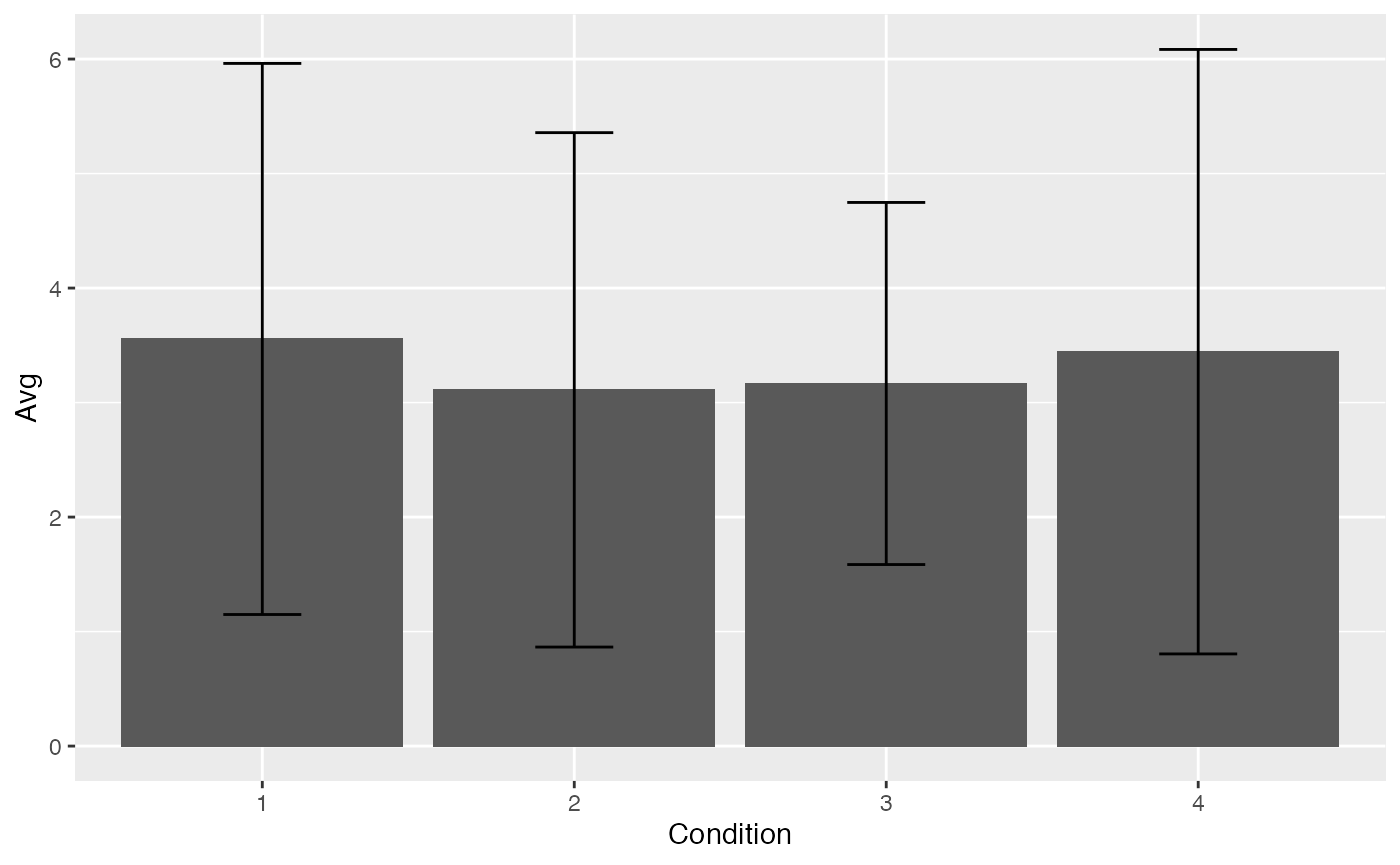
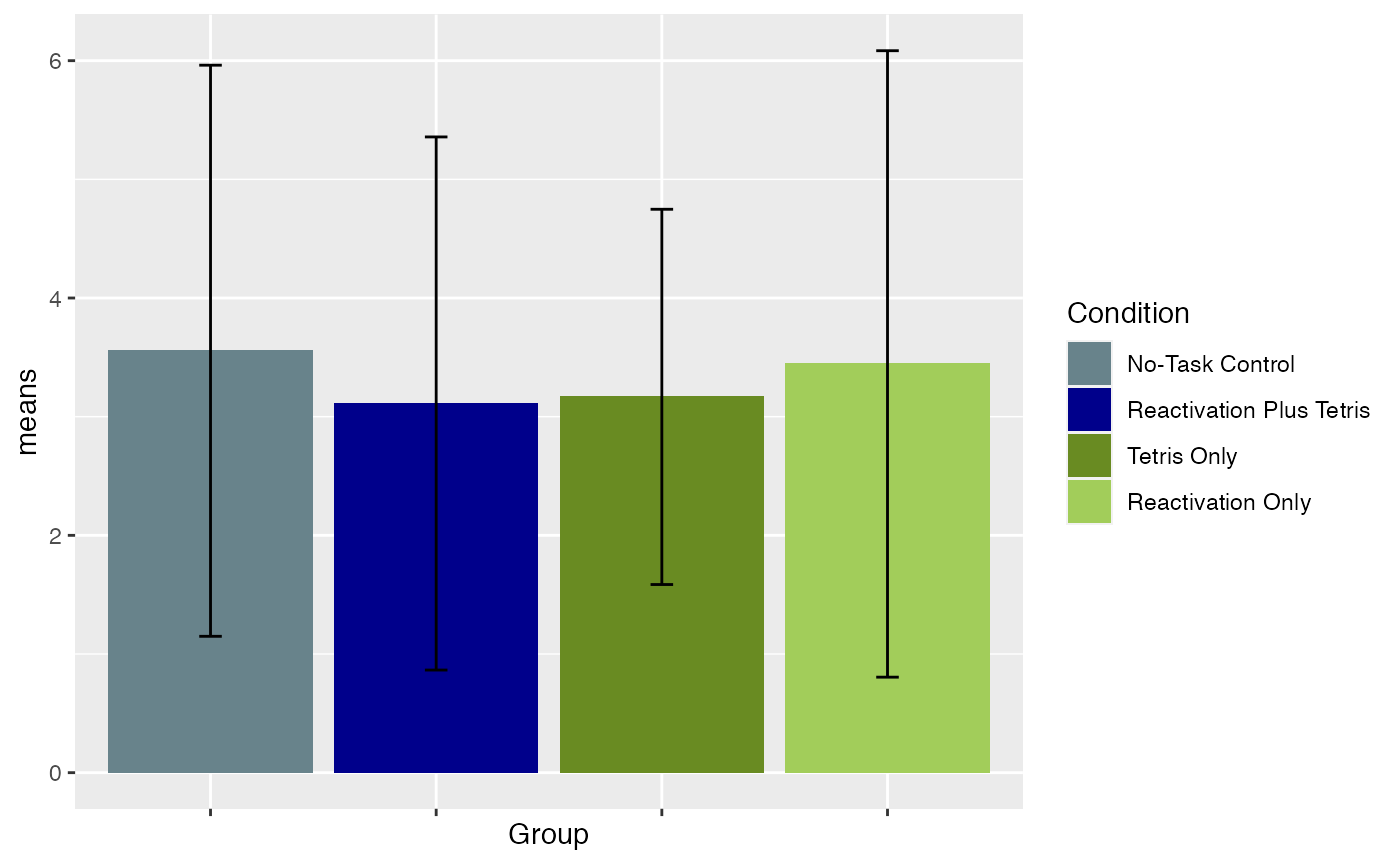
Update to lab files.

diff --git a/docs/articles/Lab 4 ANOVA.html b/docs/articles/Lab 4 ANOVA.html
@@ -113,102 +113,51 @@
 <p>Replication of one-factor ANOVA and report of results using papaja package.</p>
 <div class="sourceCode"><pre class="downlit sourceCode r">
 <code class="sourceCode R"><span class="va">jameset.data</span> <span class="op">&lt;-</span> <span class="fu"><a href="https://rdrr.io/r/utils/read.table.html" class="external-link">read.csv</a></span><span class="op">(</span><span class="st">"Data/Jamesetal2015Experiment2.csv"</span><span class="op">)</span>
+<span class="va">jameset.data</span><span class="op">$</span><span class="va">Condition</span> <span class="op">&lt;-</span> <span class="fu"><a href="https://rdrr.io/r/base/factor.html" class="external-link">as.factor</a></span><span class="op">(</span><span class="va">jameset.data</span><span class="op">$</span><span class="va">Condition</span><span class="op">)</span>
+<span class="fu"><a href="https://rdrr.io/r/base/levels.html" class="external-link">levels</a></span><span class="op">(</span><span class="va">jameset.data</span><span class="op">$</span><span class="va">Condition</span><span class="op">)</span> <span class="op">&lt;-</span> <span class="fu"><a href="https://rdrr.io/r/base/c.html" class="external-link">c</a></span><span class="op">(</span><span class="st">"No-Task Control"</span>, <span class="st">"Reactivation Plus Tetris"</span>, <span class="st">"Tetris Only"</span>, <span class="st">"Reactivation Only"</span><span class="op">)</span>
 
-<span class="co"># mcrump - rstats method</span>
-
-<span class="va">jameset.aov</span> <span class="op">&lt;-</span> <span class="va">jameset.data</span> <span class="op"><a href="https://magrittr.tidyverse.org/reference/pipe.html" class="external-link">%&gt;%</a></span>
-  <span class="fu"><a href="https://dplyr.tidyverse.org/reference/mutate.html" class="external-link">mutate</a></span><span class="op">(</span>Subjects <span class="op">=</span> <span class="fl">1</span><span class="op">:</span><span class="fl">72</span>, .before <span class="op">=</span> <span class="va">Condition</span><span class="op">)</span><span class="op"><a href="https://magrittr.tidyverse.org/reference/pipe.html" class="external-link">%&gt;%</a></span>
-  <span class="fu"><a href="https://dplyr.tidyverse.org/reference/select.html" class="external-link">select</a></span><span class="op">(</span><span class="fu"><a href="https://rdrr.io/r/base/c.html" class="external-link">c</a></span><span class="op">(</span><span class="va">Subjects</span>, <span class="va">Condition</span>, <span class="va">Day_Zero_Number_of_Intrusions</span><span class="op">)</span><span class="op">)</span>
-<span class="va">tibble.test</span> <span class="op">&lt;-</span> <span class="fu"><a href="https://tibble.tidyverse.org/reference/tibble.html" class="external-link">tibble</a></span><span class="op">(</span><span class="va">jameset.aov</span><span class="op">)</span>
-
-<span class="fu"><a href="https://rdrr.io/r/stats/aov.html" class="external-link">aov</a></span><span class="op">(</span><span class="va">Day_Zero_Number_of_Intrusions</span><span class="op">~</span><span class="va">Condition</span>, data <span class="op">=</span> <span class="va">tibble.test</span><span class="op">)</span></code></pre></div>
-<pre><code><span class="co">## Call:</span>
-<span class="co">##    aov(formula = Day_Zero_Number_of_Intrusions ~ Condition, data = tibble.test)</span>
-<span class="co">## </span>
-<span class="co">## Terms:</span>
-<span class="co">##                 Condition Residuals</span>
-<span class="co">## Sum of Squares     0.0694  347.5833</span>
-<span class="co">## Deg. of Freedom         1        70</span>
-<span class="co">## </span>
-<span class="co">## Residual standard error: 2.228335</span>
-<span class="co">## Estimated effects may be unbalanced</span></code></pre>
-<div class="sourceCode"><pre class="downlit sourceCode r">
-<code class="sourceCode R"><span class="co"># ksrm</span>
-
-<span class="fu"><a href="https://rdrr.io/r/base/colnames.html" class="external-link">colnames</a></span><span class="op">(</span><span class="va">jameset.data</span><span class="op">)</span> <span class="co"># retrieve experimental variables</span></code></pre></div>
-<pre><code><span class="co">##  [1] "Condition"                             </span>
-<span class="co">##  [2] "Time_of_Day"                           </span>
-<span class="co">##  [3] "BDI_II"                                </span>
-<span class="co">##  [4] "STAI_T"                                </span>
-<span class="co">##  [5] "pre_film_VAS_Sad"                      </span>
-<span class="co">##  [6] "pre_film_VAS_Hopeless"                 </span>
-<span class="co">##  [7] "pre_film_VAS_Depressed"                </span>
-<span class="co">##  [8] "pre_film_VAS_Fear"                     </span>
-<span class="co">##  [9] "pre_film_VAS_Horror"                   </span>
-<span class="co">## [10] "pre_film_VAS_Anxious"                  </span>
-<span class="co">## [11] "post_film_VAS_Sad"                     </span>
-<span class="co">## [12] "post_film_VAS_Hopeless"                </span>
-<span class="co">## [13] "post_film_VAS_Depressed"               </span>
-<span class="co">## [14] "post_film_VAS_Fear"                    </span>
-<span class="co">## [15] "post_film_VAS_Horror"                  </span>
-<span class="co">## [16] "post_film_VAS_Anxious"                 </span>
-<span class="co">## [17] "Attention_Paid_to_Film"                </span>
-<span class="co">## [18] "Post_film_Distress"                    </span>
-<span class="co">## [19] "Day_Zero_Number_of_Intrusions"         </span>
-<span class="co">## [20] "Days_One_to_Seven_Number_of_Intrusions"</span>
-<span class="co">## [21] "Visual_Recognition_Memory_Test"        </span>
-<span class="co">## [22] "Verbal_Recognition_Memory_Test"        </span>
-<span class="co">## [23] "Number_of_Provocation_Task_Intrusions" </span>
-<span class="co">## [24] "Diary_Compliance"                      </span>
-<span class="co">## [25] "IES_R_Intrusion_subscale"              </span>
-<span class="co">## [26] "Tetris_Total_Score"                    </span>
-<span class="co">## [27] "Self_Rated_Tetris_Performance"         </span>
-<span class="co">## [28] "Tetris_Demand_Rating"</span></code></pre>
-<div class="sourceCode"><pre class="downlit sourceCode r">
-<code class="sourceCode R"><span class="va">jameset.means</span> <span class="op">&lt;-</span> <span class="va">jameset.data</span> <span class="op"><a href="https://magrittr.tidyverse.org/reference/pipe.html" class="external-link">%&gt;%</a></span>
-  <span class="fu"><a href="https://dplyr.tidyverse.org/reference/mutate.html" class="external-link">mutate</a></span><span class="op">(</span>Subjects <span class="op">=</span> <span class="fl">1</span><span class="op">:</span><span class="fl">72</span>, .before <span class="op">=</span> <span class="va">Condition</span><span class="op">)</span><span class="op"><a href="https://magrittr.tidyverse.org/reference/pipe.html" class="external-link">%&gt;%</a></span>
+<span class="va">jameset.means</span> <span class="op">&lt;-</span> <span class="va">jameset.data</span> <span class="op"><a href="https://magrittr.tidyverse.org/reference/pipe.html" class="external-link">%&gt;%</a></span>
+  <span class="fu"><a href="https://dplyr.tidyverse.org/reference/mutate.html" class="external-link">mutate</a></span><span class="op">(</span>Subjects <span class="op">=</span> <span class="fl">1</span><span class="op">:</span><span class="fl">72</span>, .before <span class="op">=</span> <span class="va">Condition</span><span class="op">)</span> <span class="op"><a href="https://magrittr.tidyverse.org/reference/pipe.html" class="external-link">%&gt;%</a></span>
   <span class="fu"><a href="https://dplyr.tidyverse.org/reference/select.html" class="external-link">select</a></span><span class="op">(</span><span class="fu"><a href="https://rdrr.io/r/base/c.html" class="external-link">c</a></span><span class="op">(</span><span class="va">Subjects</span>, <span class="va">Condition</span>, <span class="va">Day_Zero_Number_of_Intrusions</span><span class="op">)</span><span class="op">)</span><span class="op"><a href="https://magrittr.tidyverse.org/reference/pipe.html" class="external-link">%&gt;%</a></span>
   <span class="fu"><a href="https://dplyr.tidyverse.org/reference/group_by.html" class="external-link">group_by</a></span><span class="op">(</span><span class="va">Condition</span><span class="op">)</span><span class="op"><a href="https://magrittr.tidyverse.org/reference/pipe.html" class="external-link">%&gt;%</a></span>
-  <span class="fu"><a href="https://dplyr.tidyverse.org/reference/summarise.html" class="external-link">summarize</a></span><span class="op">(</span>Avg <span class="op">=</span> <span class="fu"><a href="https://rdrr.io/r/base/mean.html" class="external-link">mean</a></span><span class="op">(</span><span class="va">Day_Zero_Number_of_Intrusions</span><span class="op">)</span>, Sd <span class="op">=</span> <span class="fu"><a href="https://rdrr.io/r/stats/sd.html" class="external-link">sd</a></span><span class="op">(</span><span class="va">Day_Zero_Number_of_Intrusions</span><span class="op">)</span><span class="op">)</span>
+  <span class="fu"><a href="https://dplyr.tidyverse.org/reference/summarise.html" class="external-link">summarize</a></span><span class="op">(</span>means <span class="op">=</span> <span class="fu"><a href="https://rdrr.io/r/base/mean.html" class="external-link">mean</a></span><span class="op">(</span><span class="va">Day_Zero_Number_of_Intrusions</span><span class="op">)</span>, sd <span class="op">=</span> <span class="fu"><a href="https://rdrr.io/r/stats/sd.html" class="external-link">sd</a></span><span class="op">(</span><span class="va">Day_Zero_Number_of_Intrusions</span><span class="op">)</span><span class="op">)</span>
 
-<span class="op">(</span><span class="va">anova.output</span> <span class="op">&lt;-</span> <span class="fu"><a href="https://rdrr.io/r/stats/aov.html" class="external-link">aov</a></span><span class="op">(</span><span class="va">Day_Zero_Number_of_Intrusions</span><span class="op">~</span><span class="va">Condition</span>, data <span class="op">=</span> <span class="va">jameset.aov</span><span class="op">)</span><span class="op">)</span></code></pre></div>
-<pre><code><span class="co">## Call:</span>
-<span class="co">##    aov(formula = Day_Zero_Number_of_Intrusions ~ Condition, data = jameset.aov)</span>
-<span class="co">## </span>
-<span class="co">## Terms:</span>
-<span class="co">##                 Condition Residuals</span>
-<span class="co">## Sum of Squares     0.0694  347.5833</span>
-<span class="co">## Deg. of Freedom         1        70</span>
-<span class="co">## </span>
-<span class="co">## Residual standard error: 2.228335</span>
-<span class="co">## Estimated effects may be unbalanced</span></code></pre>
+<span class="co"># use ggplot2 to graph the mean differences between conditions</span>
+
+<span class="va">colours</span> <span class="op">=</span> <span class="fu"><a href="https://rdrr.io/r/base/c.html" class="external-link">c</a></span><span class="op">(</span><span class="st">"lightblue4"</span>, <span class="st">"darkblue"</span>, <span class="st">"olivedrab4"</span>, <span class="st">"darkolivegreen3"</span><span class="op">)</span>
+<span class="va">mean.differences</span> <span class="op">&lt;-</span> <span class="fu"><a href="https://ggplot2.tidyverse.org/reference/ggplot.html" class="external-link">ggplot</a></span><span class="op">(</span><span class="va">jameset.means</span>, <span class="fu"><a href="https://ggplot2.tidyverse.org/reference/aes.html" class="external-link">aes</a></span><span class="op">(</span>x <span class="op">=</span> <span class="va">Condition</span>, y <span class="op">=</span> <span class="va">means</span>, fill <span class="op">=</span> <span class="va">Condition</span><span class="op">)</span><span class="op">)</span> <span class="op">+</span>
+  <span class="fu"><a href="https://ggplot2.tidyverse.org/reference/geom_bar.html" class="external-link">geom_col</a></span><span class="op">(</span><span class="op">)</span> <span class="op">+</span>
+  <span class="fu"><a href="https://ggplot2.tidyverse.org/reference/scale_manual.html" class="external-link">scale_fill_manual</a></span><span class="op">(</span>values <span class="op">=</span> <span class="va">colours</span><span class="op">)</span><span class="op">+</span> 
+  <span class="fu"><a href="https://ggplot2.tidyverse.org/reference/geom_linerange.html" class="external-link">geom_errorbar</a></span><span class="op">(</span><span class="fu"><a href="https://ggplot2.tidyverse.org/reference/aes.html" class="external-link">aes</a></span><span class="op">(</span>ymin <span class="op">=</span> <span class="va">means</span> <span class="op">-</span> <span class="va">sd</span>,
+                    ymax <span class="op">=</span> <span class="va">means</span> <span class="op">+</span> <span class="va">sd</span><span class="op">)</span>,
+                width <span class="op">=</span> <span class="fl">.1</span><span class="op">)</span> <span class="op">+</span>
+  <span class="fu"><a href="https://ggplot2.tidyverse.org/reference/labs.html" class="external-link">xlab</a></span><span class="op">(</span><span class="st">"Group"</span><span class="op">)</span> 
+
+<span class="va">mean.differences</span> <span class="op">+</span><span class="fu"><a href="https://ggplot2.tidyverse.org/reference/theme.html" class="external-link">theme</a></span><span class="op">(</span>axis.text.x <span class="op">=</span> <span class="fu"><a href="https://ggplot2.tidyverse.org/reference/element.html" class="external-link">element_blank</a></span><span class="op">(</span><span class="op">)</span><span class="op">)</span></code></pre></div>
+<p><img src="Lab%204%20ANOVA_files/figure-html/unnamed-chunk-3-1.png" width="700"></p>
 <div class="sourceCode"><pre class="downlit sourceCode r">
-<code class="sourceCode R"><span class="fu"><a href="https://rdrr.io/r/base/summary.html" class="external-link">summary</a></span><span class="op">(</span><span class="va">anova.output</span><span class="op">)</span></code></pre></div>
-<pre><code><span class="co">##             Df Sum Sq Mean Sq F value Pr(&gt;F)</span>
-<span class="co">## Condition    1    0.1   0.069   0.014  0.906</span>
-<span class="co">## Residuals   70  347.6   4.965</span></code></pre>
-<div class="sourceCode"><pre class="downlit sourceCode r">
-<code class="sourceCode R"><span class="fu"><a href="https://rdrr.io/pkg/papaja/man/apa_print.html" class="external-link">apa_print</a></span><span class="op">(</span><span class="va">anova.output</span><span class="op">)</span></code></pre></div>
+<code class="sourceCode R"><span class="va">anova_output</span> <span class="op">&lt;-</span> <span class="fu"><a href="https://rdrr.io/r/stats/aov.html" class="external-link">aov</a></span><span class="op">(</span><span class="va">Day_Zero_Number_of_Intrusions</span><span class="op">~</span><span class="va">Condition</span>, data <span class="op">=</span> <span class="va">jameset.data</span><span class="op">)</span>
+<span class="fu"><a href="https://rdrr.io/pkg/papaja/man/apa_print.html" class="external-link">apa_print</a></span><span class="op">(</span><span class="va">anova_output</span><span class="op">)</span></code></pre></div>
 <pre><code><span class="co">## $estimate</span>
 <span class="co">## $estimate$Condition</span>
-<span class="co">## [1] "$\\hat{\\eta}^2_G = .000$"</span>
+<span class="co">## [1] "$\\hat{\\eta}^2_G = .007$"</span>
 <span class="co">## </span>
 <span class="co">## </span>
 <span class="co">## $statistic</span>
 <span class="co">## $statistic$Condition</span>
-<span class="co">## [1] "$F(1, 70) = 0.01$, $\\mathit{MSE} = 4.97$, $p = .906$"</span>
+<span class="co">## [1] "$F(3, 68) = 0.16$, $\\mathit{MSE} = 5.08$, $p = .921$"</span>
 <span class="co">## </span>
 <span class="co">## </span>
 <span class="co">## $full_result</span>
 <span class="co">## $full_result$Condition</span>
-<span class="co">## [1] "$F(1, 70) = 0.01$, $\\mathit{MSE} = 4.97$, $p = .906$, $\\hat{\\eta}^2_G = .000$"</span>
+<span class="co">## [1] "$F(3, 68) = 0.16$, $\\mathit{MSE} = 5.08$, $p = .921$, $\\hat{\\eta}^2_G = .007$"</span>
 <span class="co">## </span>
 <span class="co">## </span>
 <span class="co">## $table</span>
 <span class="co">## A data.frame with 7 labelled columns:</span>
 <span class="co">## </span>
 <span class="co">##        term estimate statistic df df.residual  mse p.value</span>
-<span class="co">## 1 Condition     .000      0.01  1          70 4.97    .906</span>
+<span class="co">## 1 Condition     .007      0.16  3          68 5.08    .921</span>
 <span class="co">## </span>
 <span class="co">## term       : Effect </span>
 <span class="co">## estimate   : $\\hat{\\eta}^2_G$ </span>
@@ -218,16 +167,6 @@
 <span class="co">## ... (2 more labels)</span>
 <span class="co">## attr(,"class")</span>
 <span class="co">## [1] "apa_results" "list"</span></code></pre>
-<div class="sourceCode"><pre class="downlit sourceCode r">
-<code class="sourceCode R"><span class="va">jameset.means</span><span class="op">$</span><span class="va">Condition</span> <span class="op">&lt;-</span> <span class="fu"><a href="https://rdrr.io/r/base/factor.html" class="external-link">as.factor</a></span><span class="op">(</span><span class="va">jameset.means</span><span class="op">$</span><span class="va">Condition</span><span class="op">)</span>
-
-<span class="co"># use ggplot2 to graph the mean differences between conditions</span>
-<span class="fu"><a href="https://ggplot2.tidyverse.org/reference/ggplot.html" class="external-link">ggplot</a></span><span class="op">(</span><span class="va">jameset.means</span>, <span class="fu"><a href="https://ggplot2.tidyverse.org/reference/aes.html" class="external-link">aes</a></span><span class="op">(</span>x <span class="op">=</span> <span class="va">Condition</span>, y <span class="op">=</span> <span class="va">Avg</span><span class="op">)</span><span class="op">)</span> <span class="op">+</span>
-  <span class="fu"><a href="https://ggplot2.tidyverse.org/reference/geom_bar.html" class="external-link">geom_col</a></span><span class="op">(</span><span class="op">)</span> <span class="op">+</span>
-  <span class="fu"><a href="https://ggplot2.tidyverse.org/reference/geom_linerange.html" class="external-link">geom_errorbar</a></span><span class="op">(</span><span class="fu"><a href="https://ggplot2.tidyverse.org/reference/aes.html" class="external-link">aes</a></span><span class="op">(</span>ymin <span class="op">=</span> <span class="va">Avg</span> <span class="op">-</span> <span class="va">Sd</span>,
-                    ymax <span class="op">=</span> <span class="va">Avg</span> <span class="op">+</span> <span class="va">Sd</span><span class="op">)</span>,
-                width <span class="op">=</span> <span class="fl">.25</span><span class="op">)</span> </code></pre></div>
-<p><img src="Lab%204%20ANOVA_files/figure-html/unnamed-chunk-3-1.png" width="700"></p>
   </main>
 </div>
 
